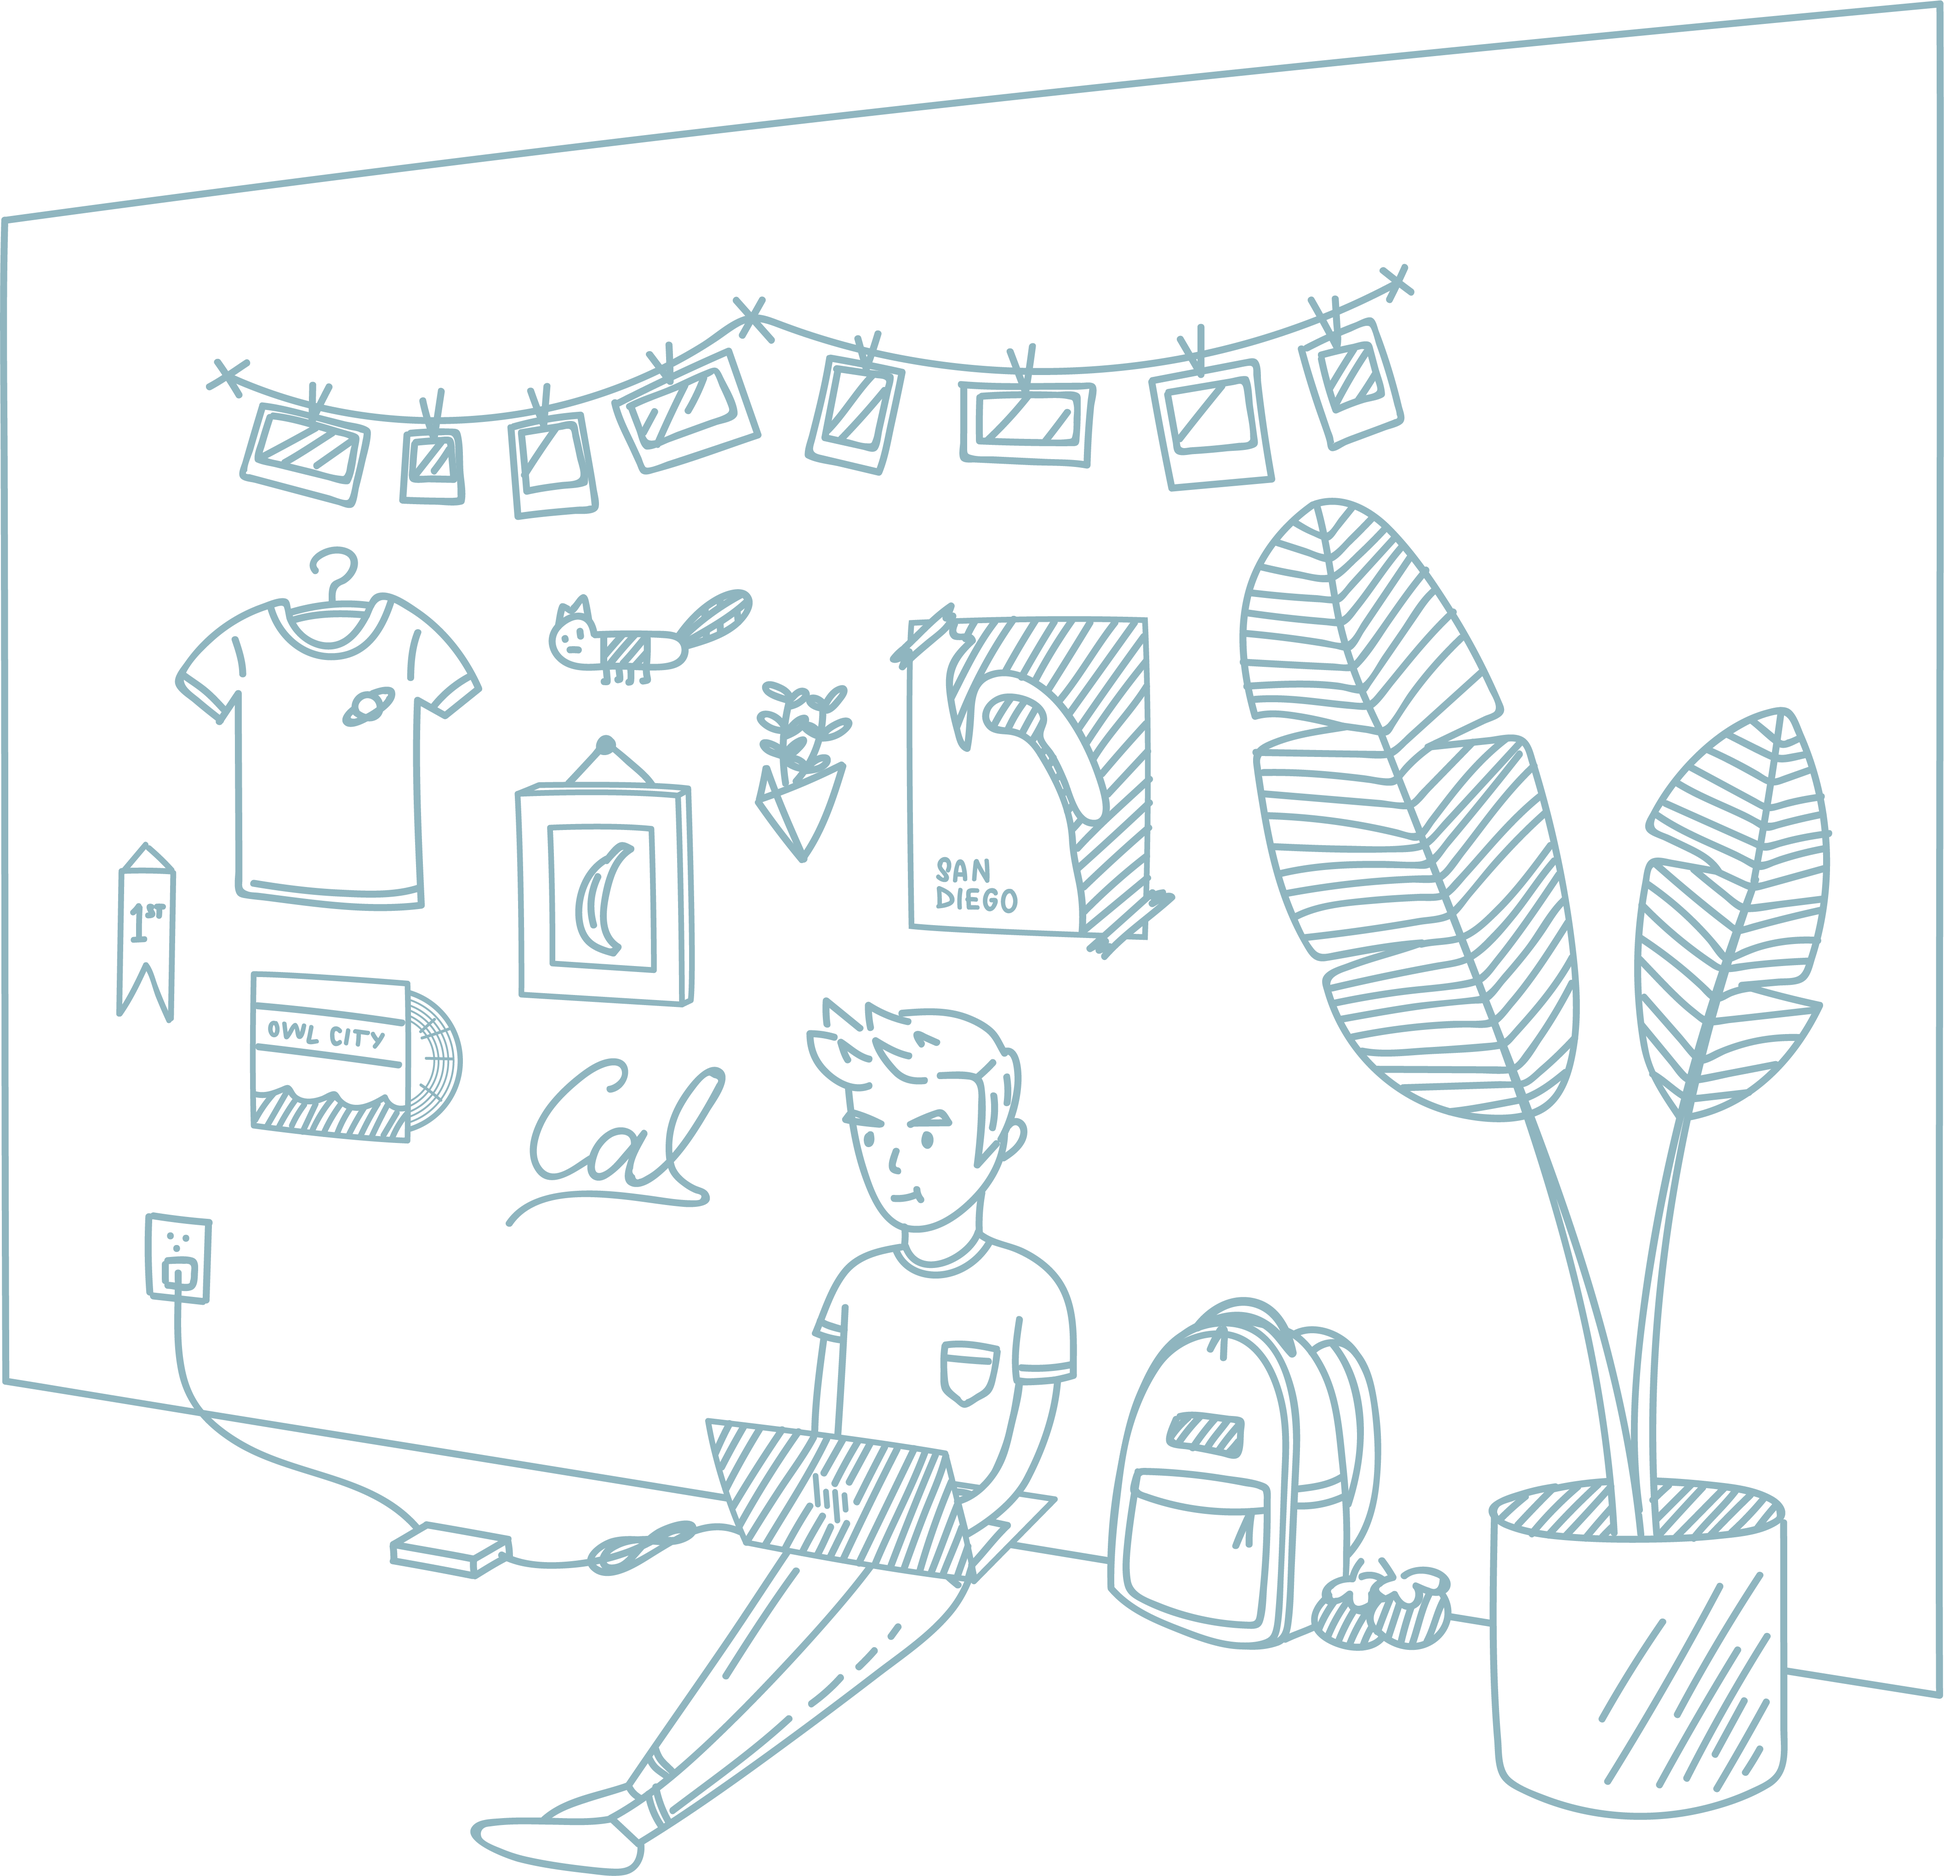
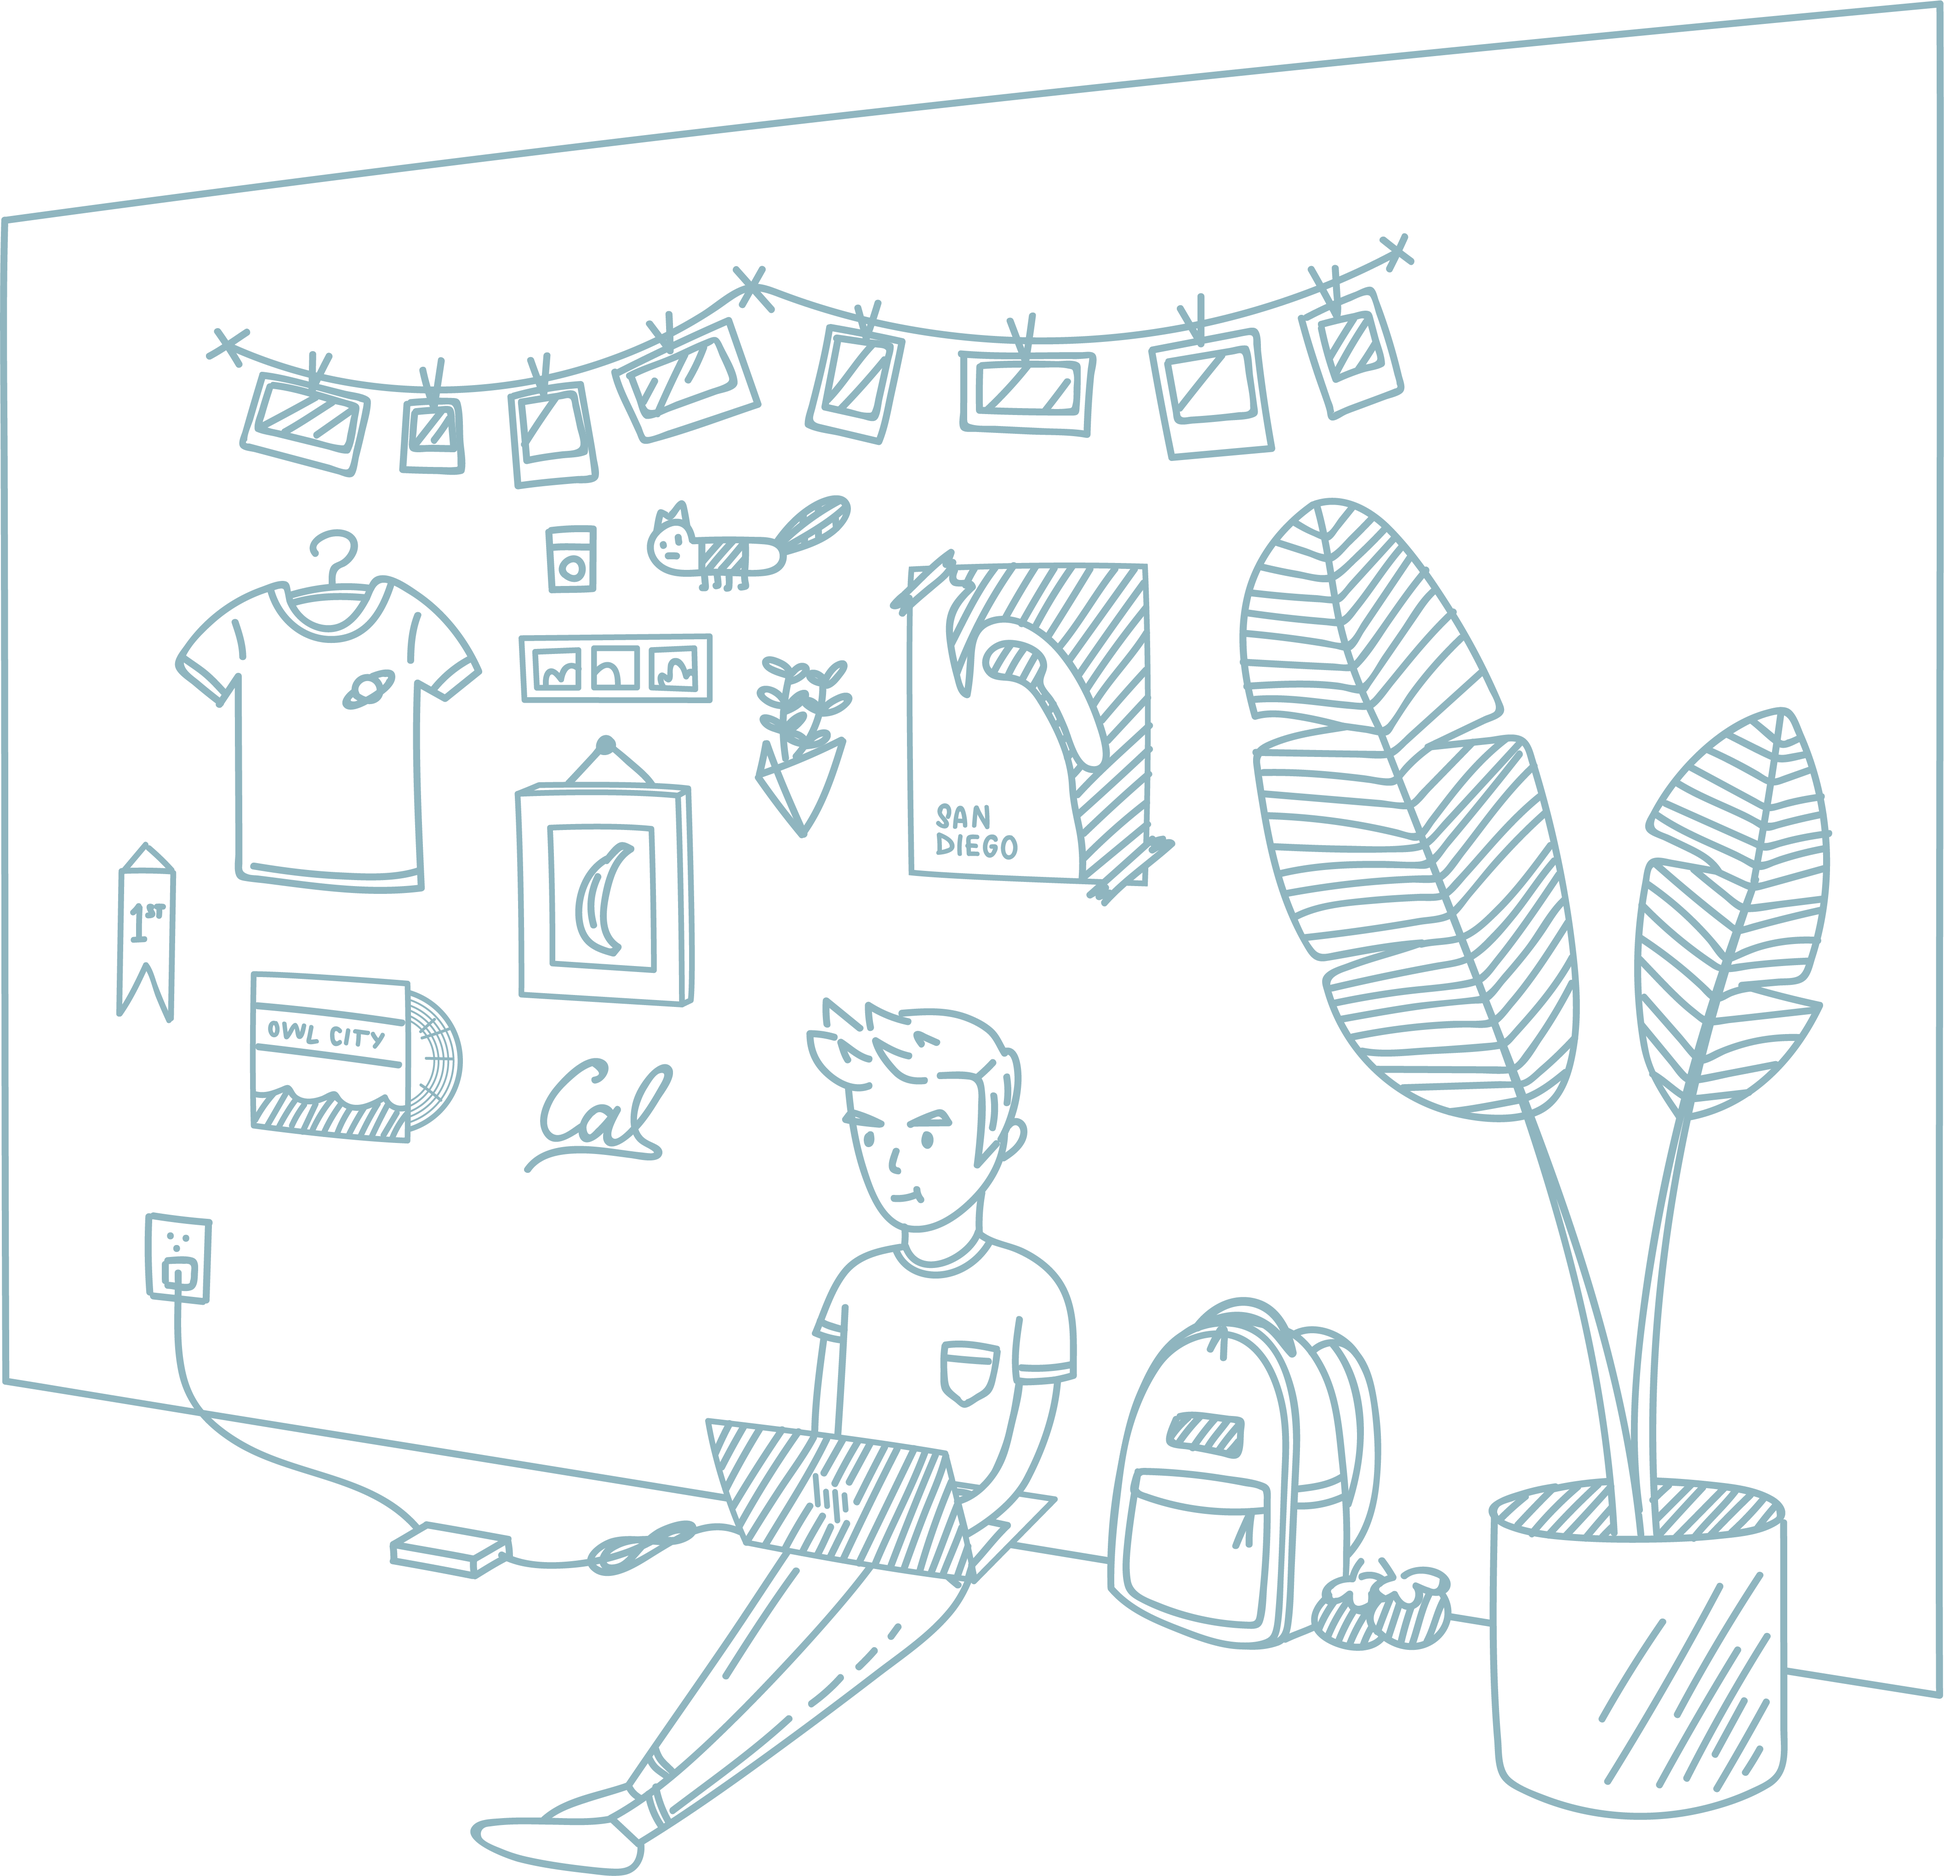
updates

diff --git a/index.html b/index.html
@@ -59,6 +59,7 @@
             <a href="https://ethicalapparel.org/" target="_blank"><div class="item" id="ethical"></div></a>
             <a href="https://open.spotify.com/user/1214258929?si=aDHJedBcQ82c9a4kxsoOvA" target="_blank"><div class="item" id="record"></div></a>
             <a href="https://www.ikea.com/gb/en/ideas/meet-the-toys-created-by-kids-for-kids-1364658837103/" target="_blank"><div class="item" id="skunk"></div></a>
+						<a href="http://webcomicname.com/" target="_blank"><div class="item" id="comic"></div></a>
             <a href="https://www.behance.net/jamesh411d685" target="_blank"><div class="item" id="pic"></div></a>
 						<a href="http://bioeng.berkeley.edu/" target="_blank"><div class="item" id="cal"></div></a>
             <a href="https://www.instagram.com/plantbrush/" target="_blank"><div class="item" id="epi"></div></a>

diff --git a/css/main.css b/css/main.css
@@ -288,16 +288,16 @@ p {
 }
 
 #polaroids {
-  width: 250px;
+  width: 270px;
   height: 40px;
-  top: 85px;
-  left: 90px;
+  top: 75px;
+  left: 80px;
 }
 
 #ethical {
   width: 50px;
   height: 80px;
-  top: 140px;
+  top: 130px;
   left: 80px;
 }
 
@@ -311,8 +311,15 @@ p {
 #skunk {
   width: 50px;
   height: 20px;
-  top: 145px;
-  left: 150px;
+  top: 120px;
+  left: 175px;
+}
+
+#comic {
+  width: 50px;
+  height: 20px;
+  top: 150px;
+  left: 145px;
 }
 
 #pic {
@@ -323,8 +330,8 @@ p {
 }
 
 #cal {
-  width: 45px;
-  height: 35px;
+  width: 35px;
+  height: 25px;
   top: 250px;
   left: 150px;
 }
@@ -332,14 +339,14 @@ p {
 #epi {
   width: 25px;
   height: 45px;
-  top: 160px;
+  top: 155px;
   left: 200px;
 }
 
 #map {
   width: 55px;
   height: 75px;
-  top: 150px;
+  top: 135px;
   left: 235px;
 }
 
